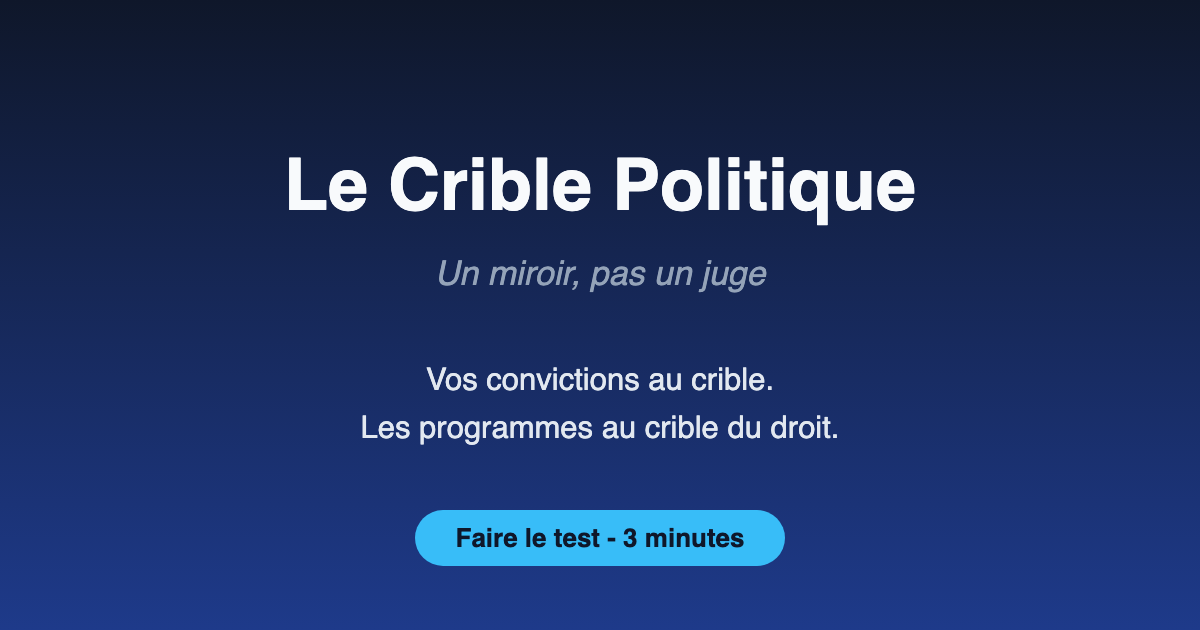
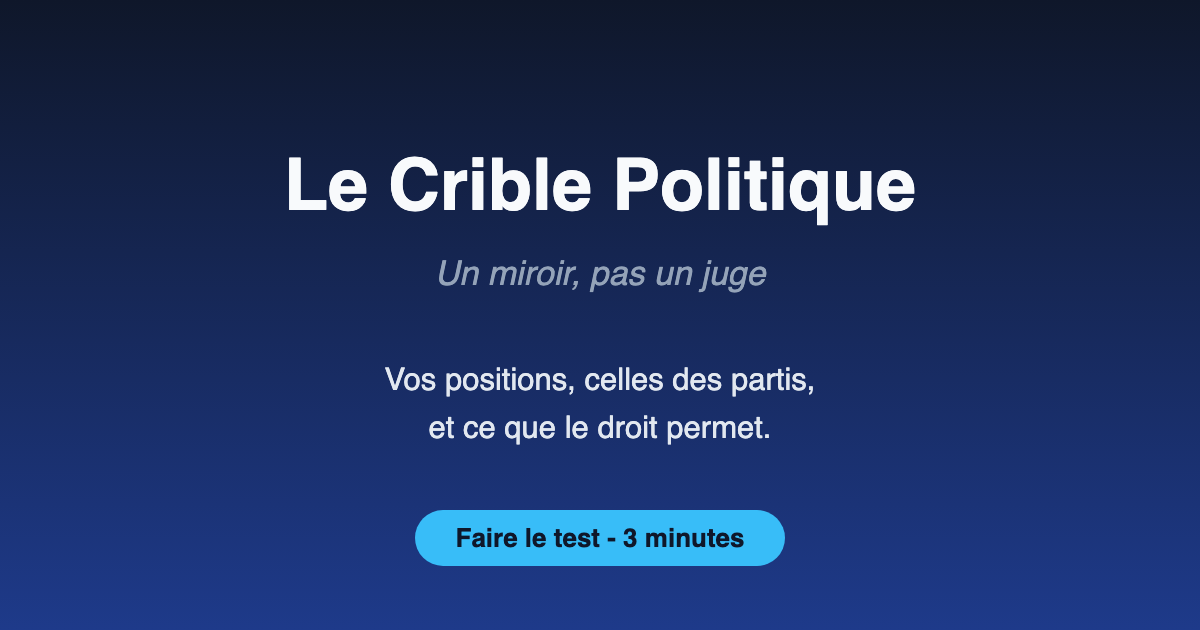
Say what the observatory does instead of announcing a sieve
"Vos convictions au crible, les programmes au crible du droit" claimed more
than the sheets deliver and read as a slogan rather than a description. The
sheets themselves already say they never return a verdict, so the positioning
was also at odds with the content. Every surface now says the plain thing: your
positions next to the parties' positions, and what the law allows or blocks,
measure by measure. The social-share image is regenerated from the same source.

Changed region(s): [[0.3083, 0.573, 0.6783, 0.6333], [0.2775, 0.6635, 0.7092, 0.7238]]

diff --git a/app/page.tsx b/app/page.tsx
@@ -173,7 +173,7 @@ export default function Home() {
                 <Scale className="h-6 w-6" strokeWidth={1.5} aria-hidden="true" />
               </div>
               <h2 id="crible-title" className="mb-3 font-[family-name:var(--font-heading)] text-2xl font-bold text-[var(--color-primary)] md:text-3xl">
-                L&apos;observatoire&nbsp;: les programmes au crible du droit
+                L&apos;observatoire&nbsp;: ce que le droit permet, et à quelles conditions
               </h2>
               <p className="mb-6 max-w-xl text-[var(--color-text-secondary)]">
                 Retraite à 60 ans, quotas d&apos;immigration, sortie de l&apos;OTAN, déficit sous 3%...
@@ -197,7 +197,7 @@ export default function Home() {
                 </div>
                 <div>
                   <dt className="font-[family-name:var(--font-heading)] text-4xl font-bold text-[var(--color-primary)]">{MEASURES.length}</dt>
-                  <dd className="text-sm text-[var(--color-text-muted)]">mesures au crible du droit</dd>
+                  <dd className="text-sm text-[var(--color-text-muted)]">mesures examinées norme par norme</dd>
                 </div>
               </dl>
             </div>
@@ -212,8 +212,8 @@ export default function Home() {
             <div>
               <h3 className="mb-3 font-[family-name:var(--font-heading)] text-lg font-bold text-[var(--color-primary)]">Le Crible Politique</h3>
               <p className="text-sm leading-relaxed text-[var(--color-text-secondary)]">
-                Initiative citoyenne indépendante. Vos convictions au crible, les programmes au
-                crible du droit. Méthodologie ouverte, aucune consigne de vote.
+                Initiative citoyenne indépendante. Vos positions face à celles des partis, et ce
+                que le droit permet mesure par mesure. Méthodologie ouverte, aucune consigne de vote.
               </p>
             </div>
             <div>

diff --git a/app/crible/page.tsx b/app/crible/page.tsx
@@ -7,7 +7,7 @@ import PageHeader from '@/components/PageHeader';
 export const metadata: Metadata = {
     title: "L'observatoire - Le Crible Politique",
     description:
-        "Les mesures phares du débat politique au crible du droit: ce qui est établi, ce qui est débattu, les obstacles norme par norme et les voies possibles. Jamais de verdict."
+        "Les mesures phares du débat politique, examinées norme par norme: ce qui est établi, ce qui est débattu, les obstacles et les voies possibles. Jamais de verdict."
 };
 
 export default function CriblePage() {
@@ -18,7 +18,7 @@ export default function CriblePage() {
             <main className="mx-auto max-w-4xl px-4 py-10 sm:px-6">
                 <div className="mb-8 space-y-3 text-center">
                     <h2 className="font-[family-name:var(--font-heading)] text-3xl font-bold text-[var(--color-primary)]">
-                        {MEASURES.length} mesures phares au crible du droit
+                        {MEASURES.length} mesures phares, examinées norme par norme
                     </h2>
                     <p className="mx-auto max-w-2xl text-[var(--color-text-secondary)]">
                         Pour chaque mesure emblématique, des oppositions comme du gouvernement: ce qui est

diff --git a/app/layout.tsx b/app/layout.tsx
@@ -20,7 +20,7 @@ export const metadata: Metadata = {
   // preview deployment overrides it with NEXT_PUBLIC_SITE_URL.
   metadataBase: new URL(process.env.NEXT_PUBLIC_SITE_URL || "https://crible.eu"),
   title: "Le Crible Politique — Un miroir, pas un juge",
-  description: "Vos convictions au crible, les programmes au crible du droit. Situez vos positions en 7 dimensions, comparez-les aux positions documentées des partis (FR/BE) et vérifiez ce que le droit permet vraiment. Le calcul se fait dans votre navigateur; sauvegarde chiffrée facultative.",
+  description: "Situez vos positions en 7 dimensions, comparez-les aux positions documentées des partis (France et Belgique), et voyez ce que le droit permet ou empêche pour les mesures phares du débat. Le calcul se fait dans votre navigateur; sauvegarde chiffrée facultative.",
   manifest: "/manifest.json",
   openGraph: {
     title: "Le Crible Politique — Quel est ton profil politique ?",

diff --git a/components/test/ResultsView.tsx b/components/test/ResultsView.tsx
@@ -462,7 +462,7 @@ export default function ResultsView({ answers, respondent, onRestart }: ResultsV
                 </h3>
                 <p className="mx-auto mt-1 max-w-xl text-sm text-[var(--color-text-secondary)]">
                     Retraite à 60 ans, quotas d&apos;immigration, sortie de l&apos;OTAN, déficit sous 3%...
-                    Les mesures phares du débat passées au crible: ce qui est établi, ce qui est débattu,
+                    Les mesures phares du débat, examinées norme par norme: ce qui est établi, ce qui est débattu,
                     sans verdict.
                 </p>
                 <Link
